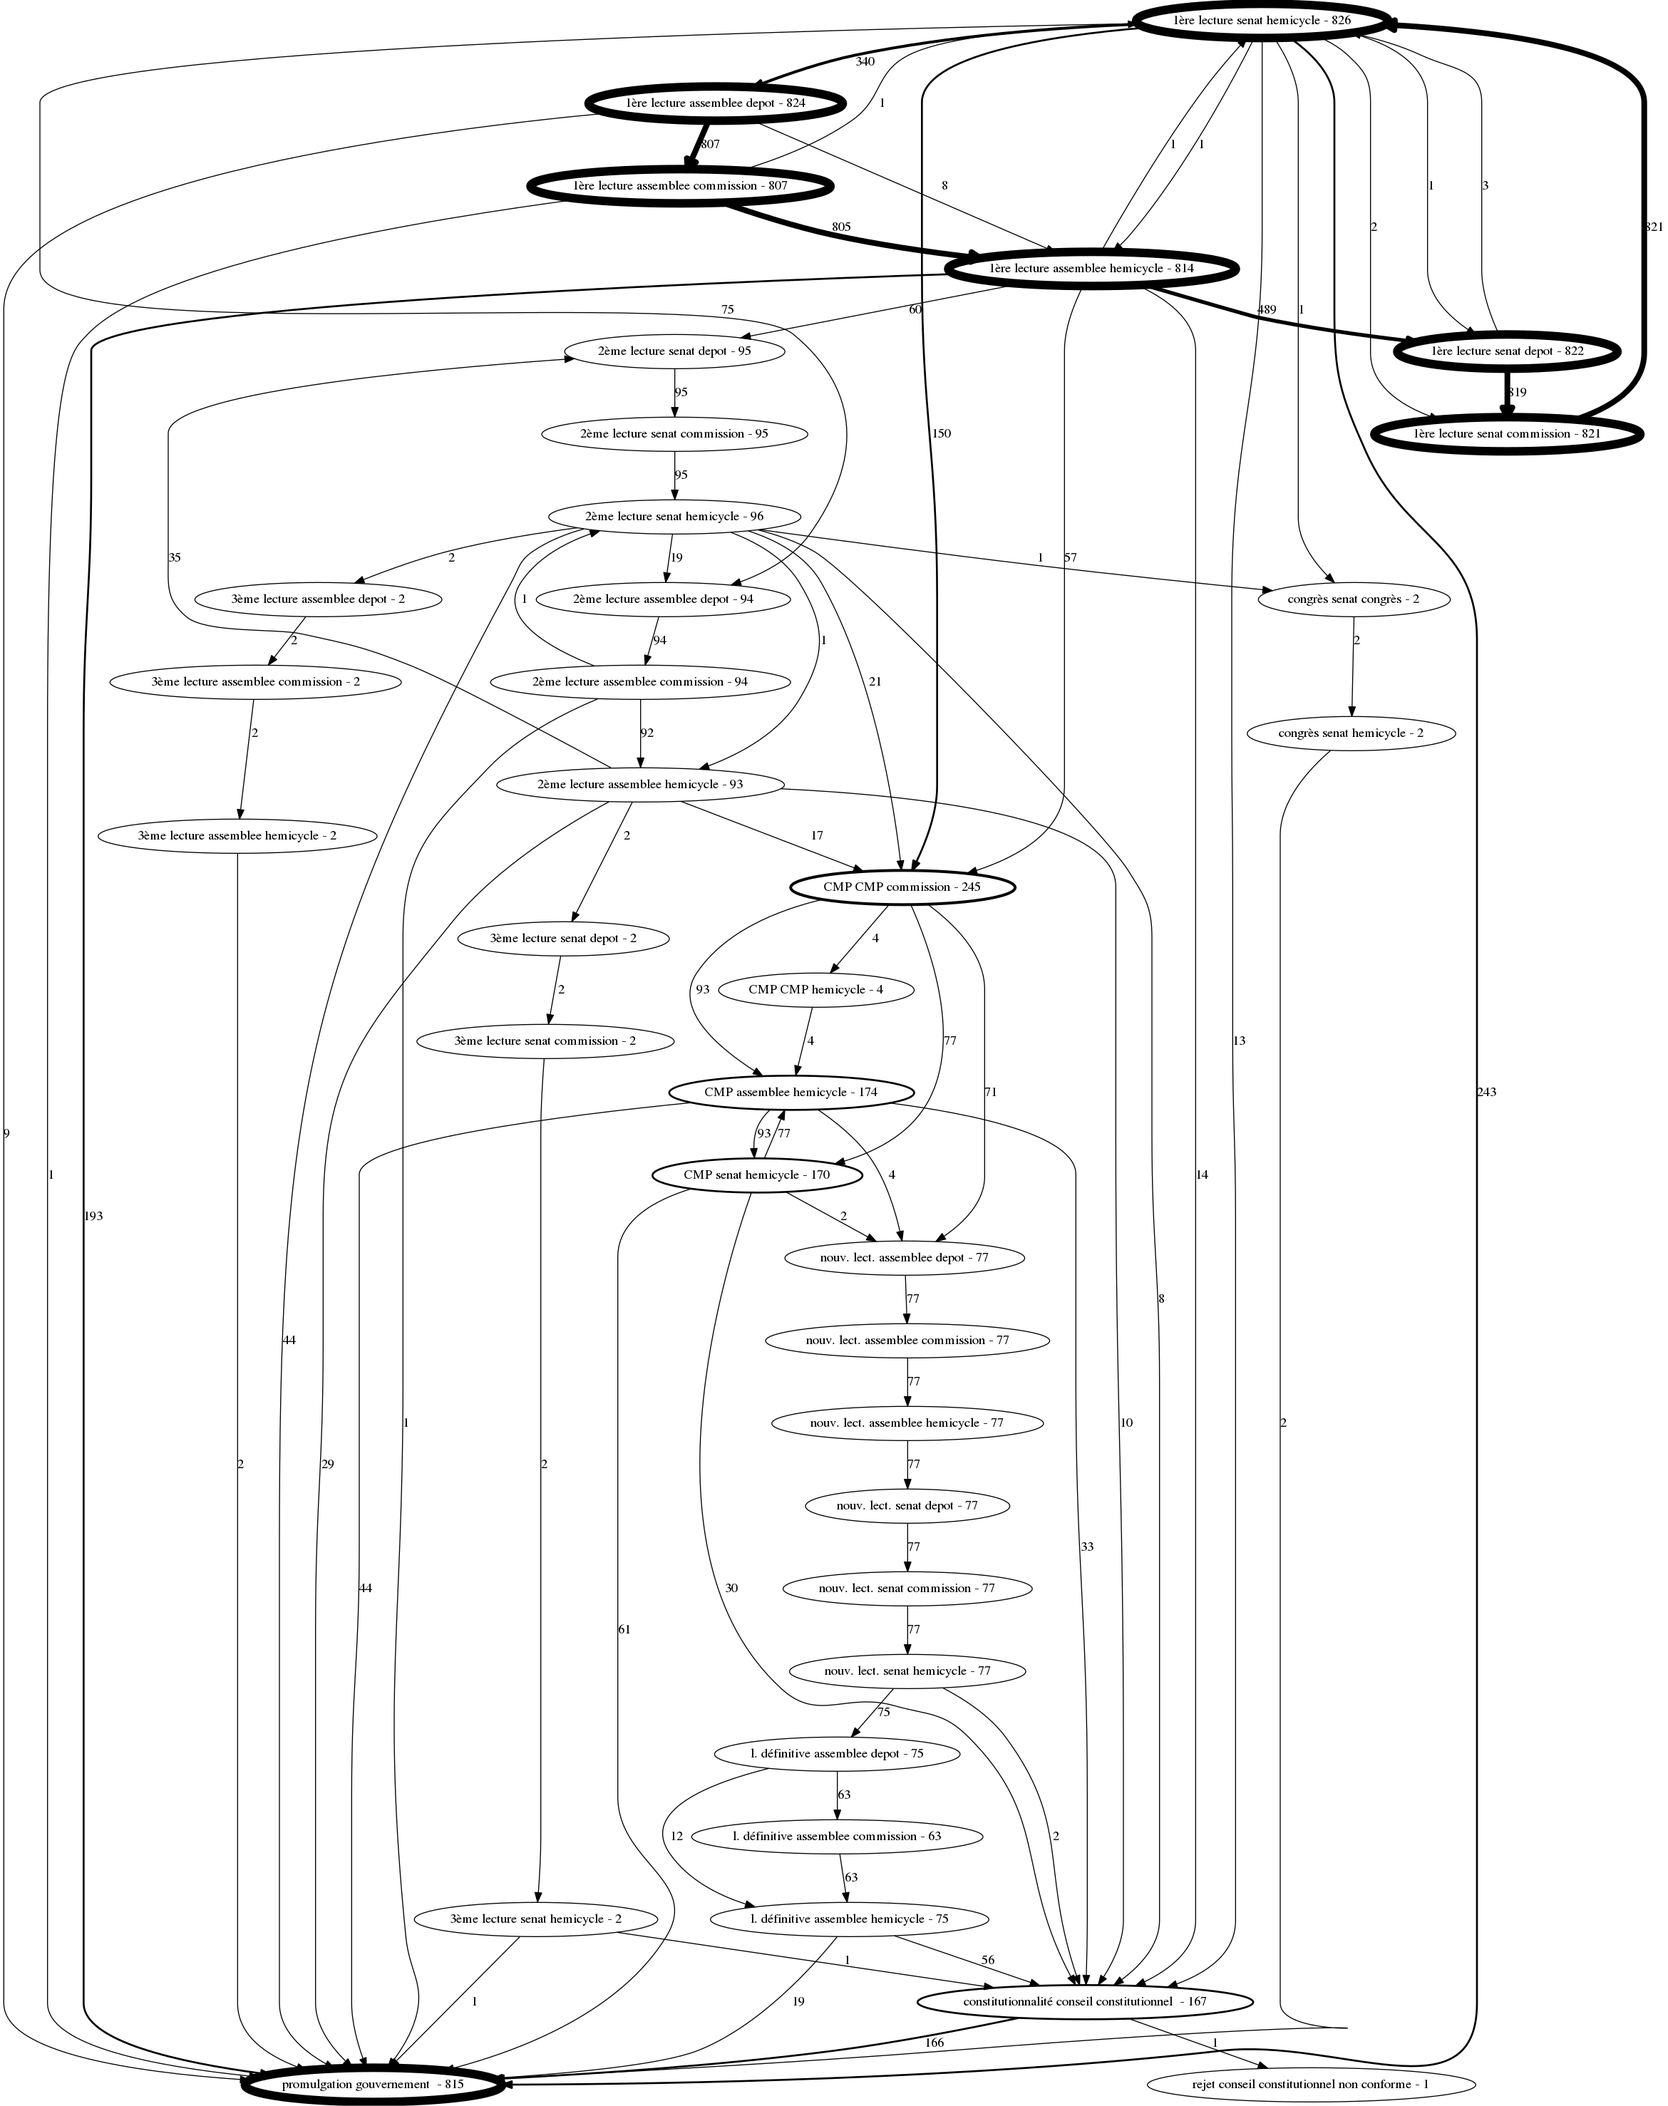
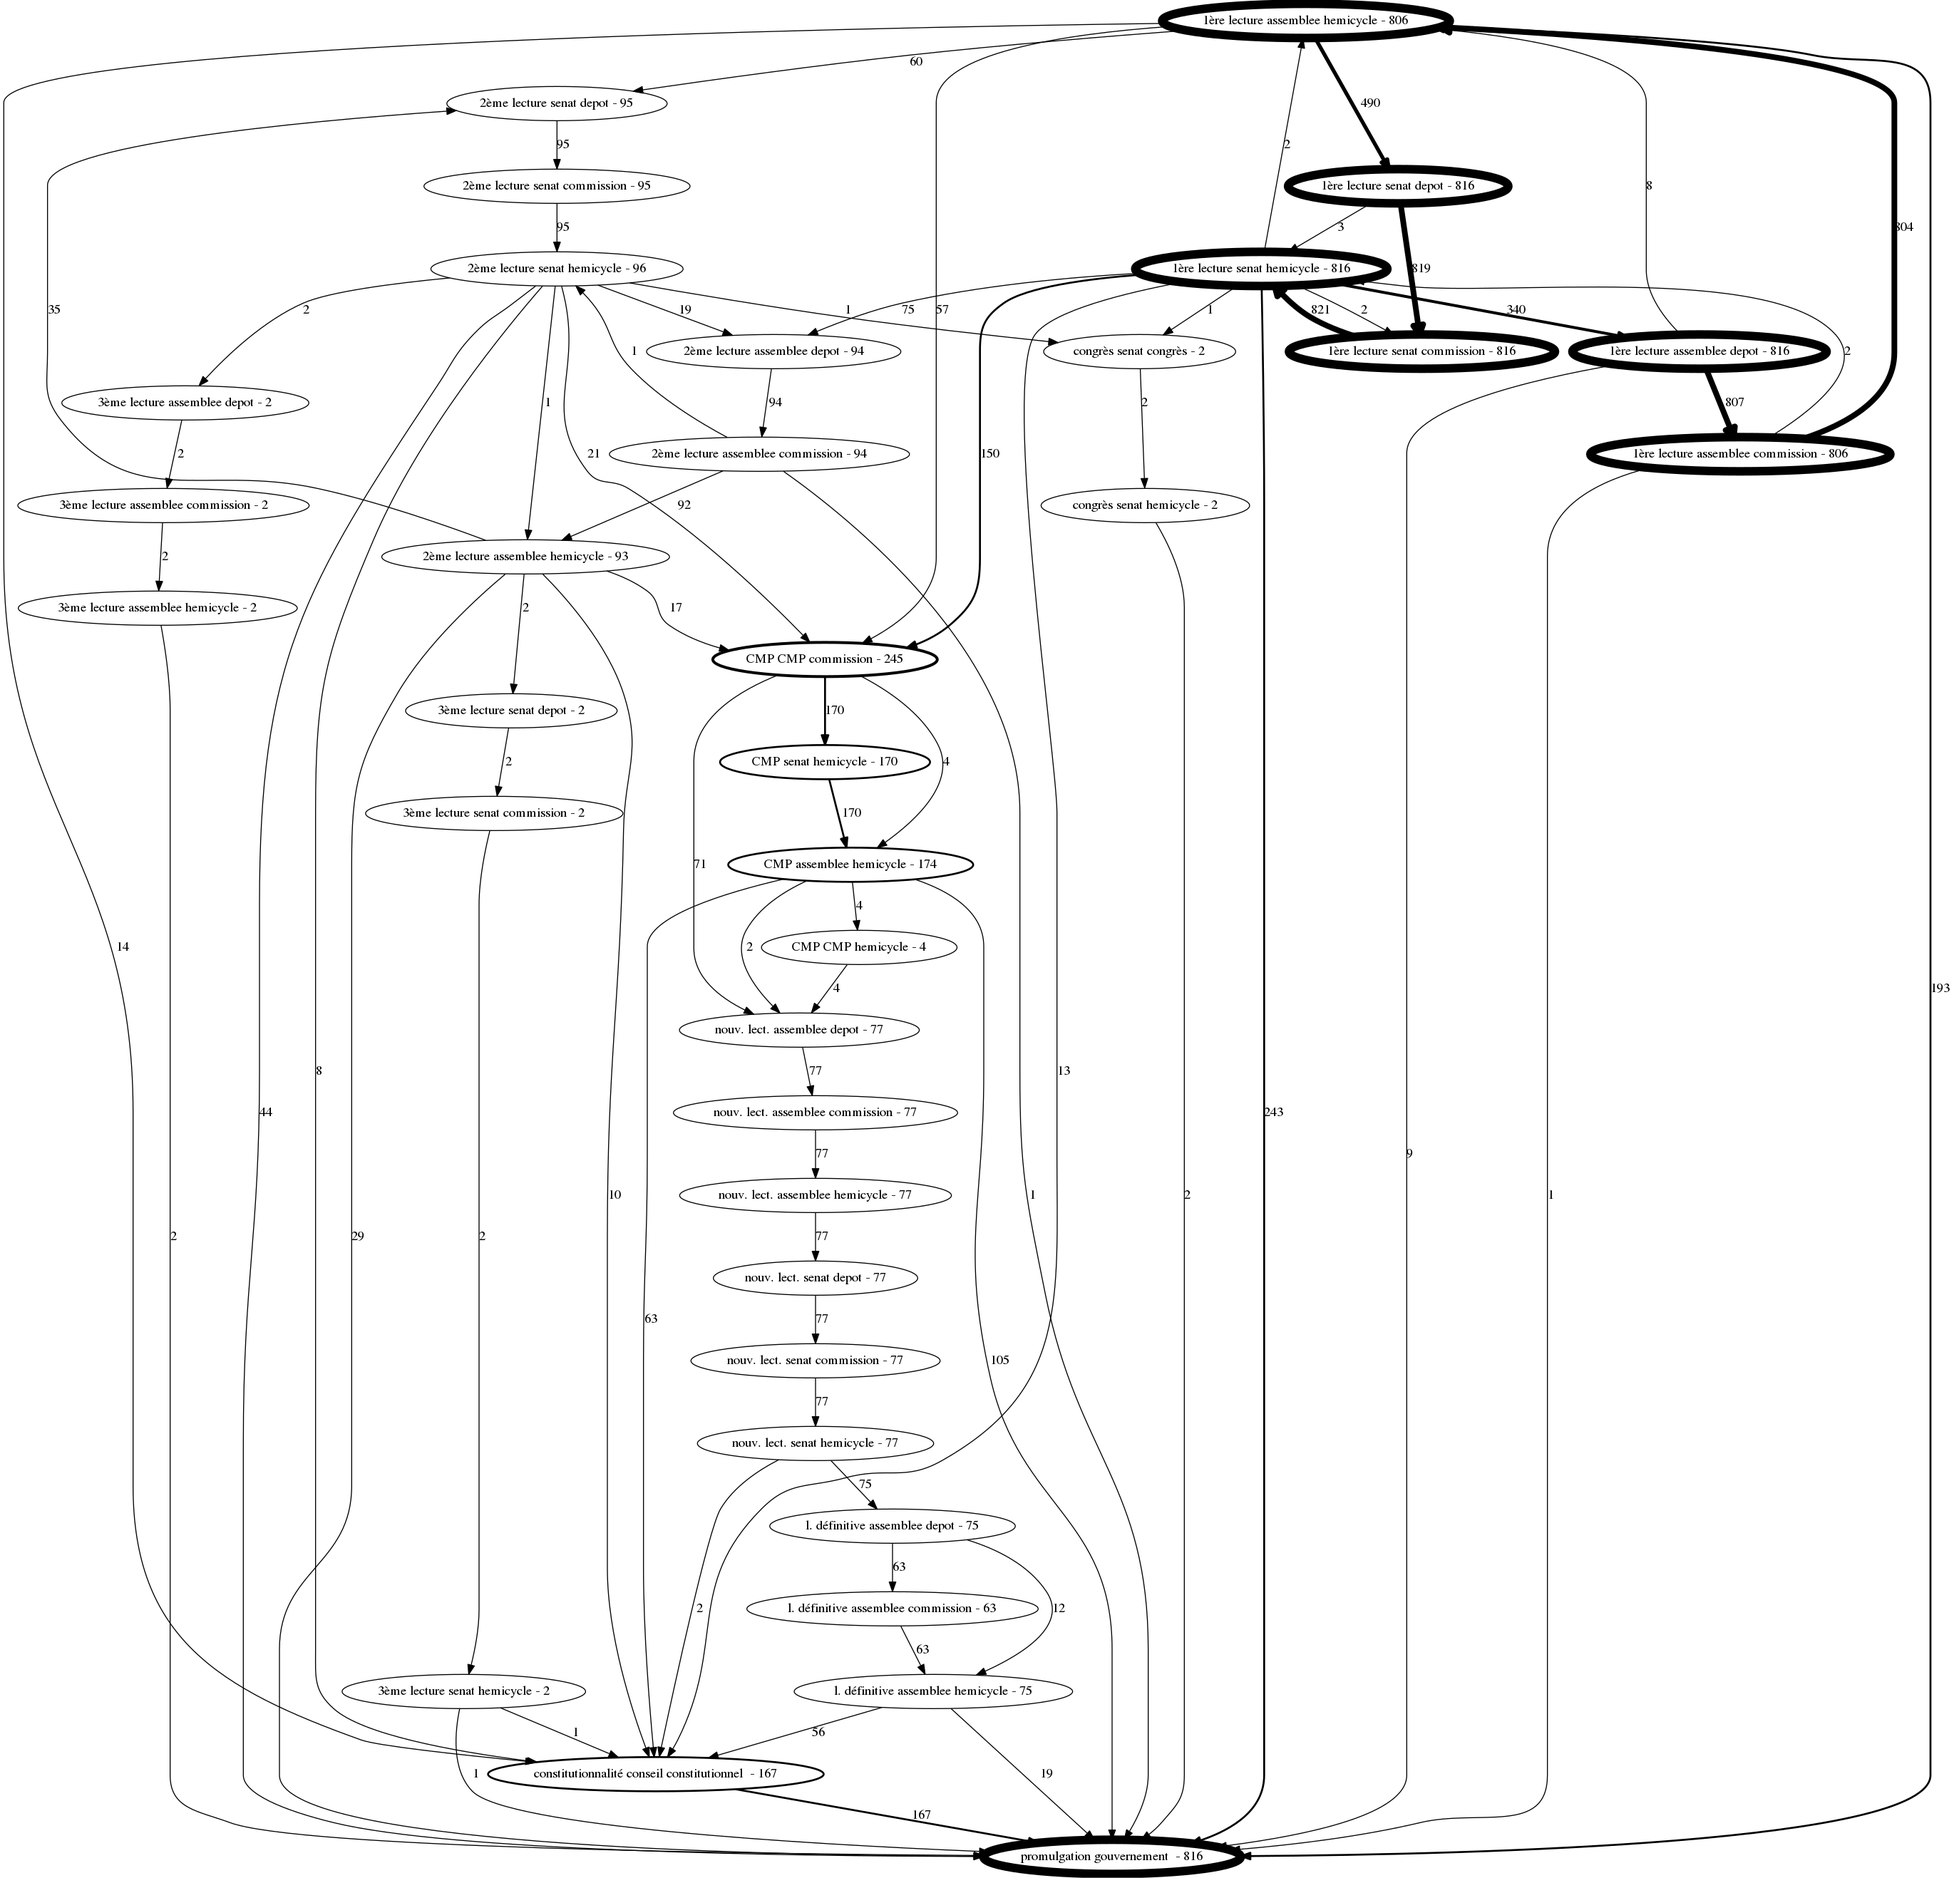
improve steps calculation and debugging

diff --git a/steps_as_dot.py b/steps_as_dot.py
@@ -10,15 +10,19 @@ all_senat_jo = json.load(open(sys.argv[1]))
 
 nodes_names_size = {}
 step_trans = {}
+steps_logs = ""
 for dos in all_senat_jo:
     last_step = ''
     for step in dos.get('steps', []):
         step_name = '%s %s %s' % (step['stage'], step.get('institution'), step.get('step',''))
+        # step_name = step['stage']
+        # step_name = step['institution']
         if step_name != last_step:
             if last_step not in step_trans:
                 step_trans[last_step] = {}
             step_trans[last_step][step_name] = step_trans[last_step].get(step_name, 0) + 1
-            nodes_names_size[step_name] = nodes_names_size.get(step_name, 0) + 1
+            nodes_names_size[step_name] = nodes_names_size.get(step_name, set()).union(set([dos['url_dossier_senat']]))
+            steps_logs += '%s->%s:%s\n' % (last_step, step_name, dos['url_dossier_senat'])
         last_step = step_name
 
 dot_result = 'digraph g { '
@@ -41,9 +45,11 @@ for prev, nexts in step_trans.items():
                 prev_id, next_id, next_v, next_v // 150 + 1)
 
 for name, id in nodes_names.items():
-    dot_result += '\n %s [label="%s - %d", penwidth="%d"];' % (id, name, nodes_names_size[name], nodes_names_size[name] // 100 + 1)
+    dot_result += '\n %s [label="%s - %d", penwidth="%d"];' % (id, name, len(nodes_names_size[name]), len(nodes_names_size[name]) // 100 + 1)
 
 dot_result += '\n}'
+
+open('steps.log', 'w').write(steps_logs)
 
 print(dot_result)
 # open('steps.dot','w').write(dot_result)
